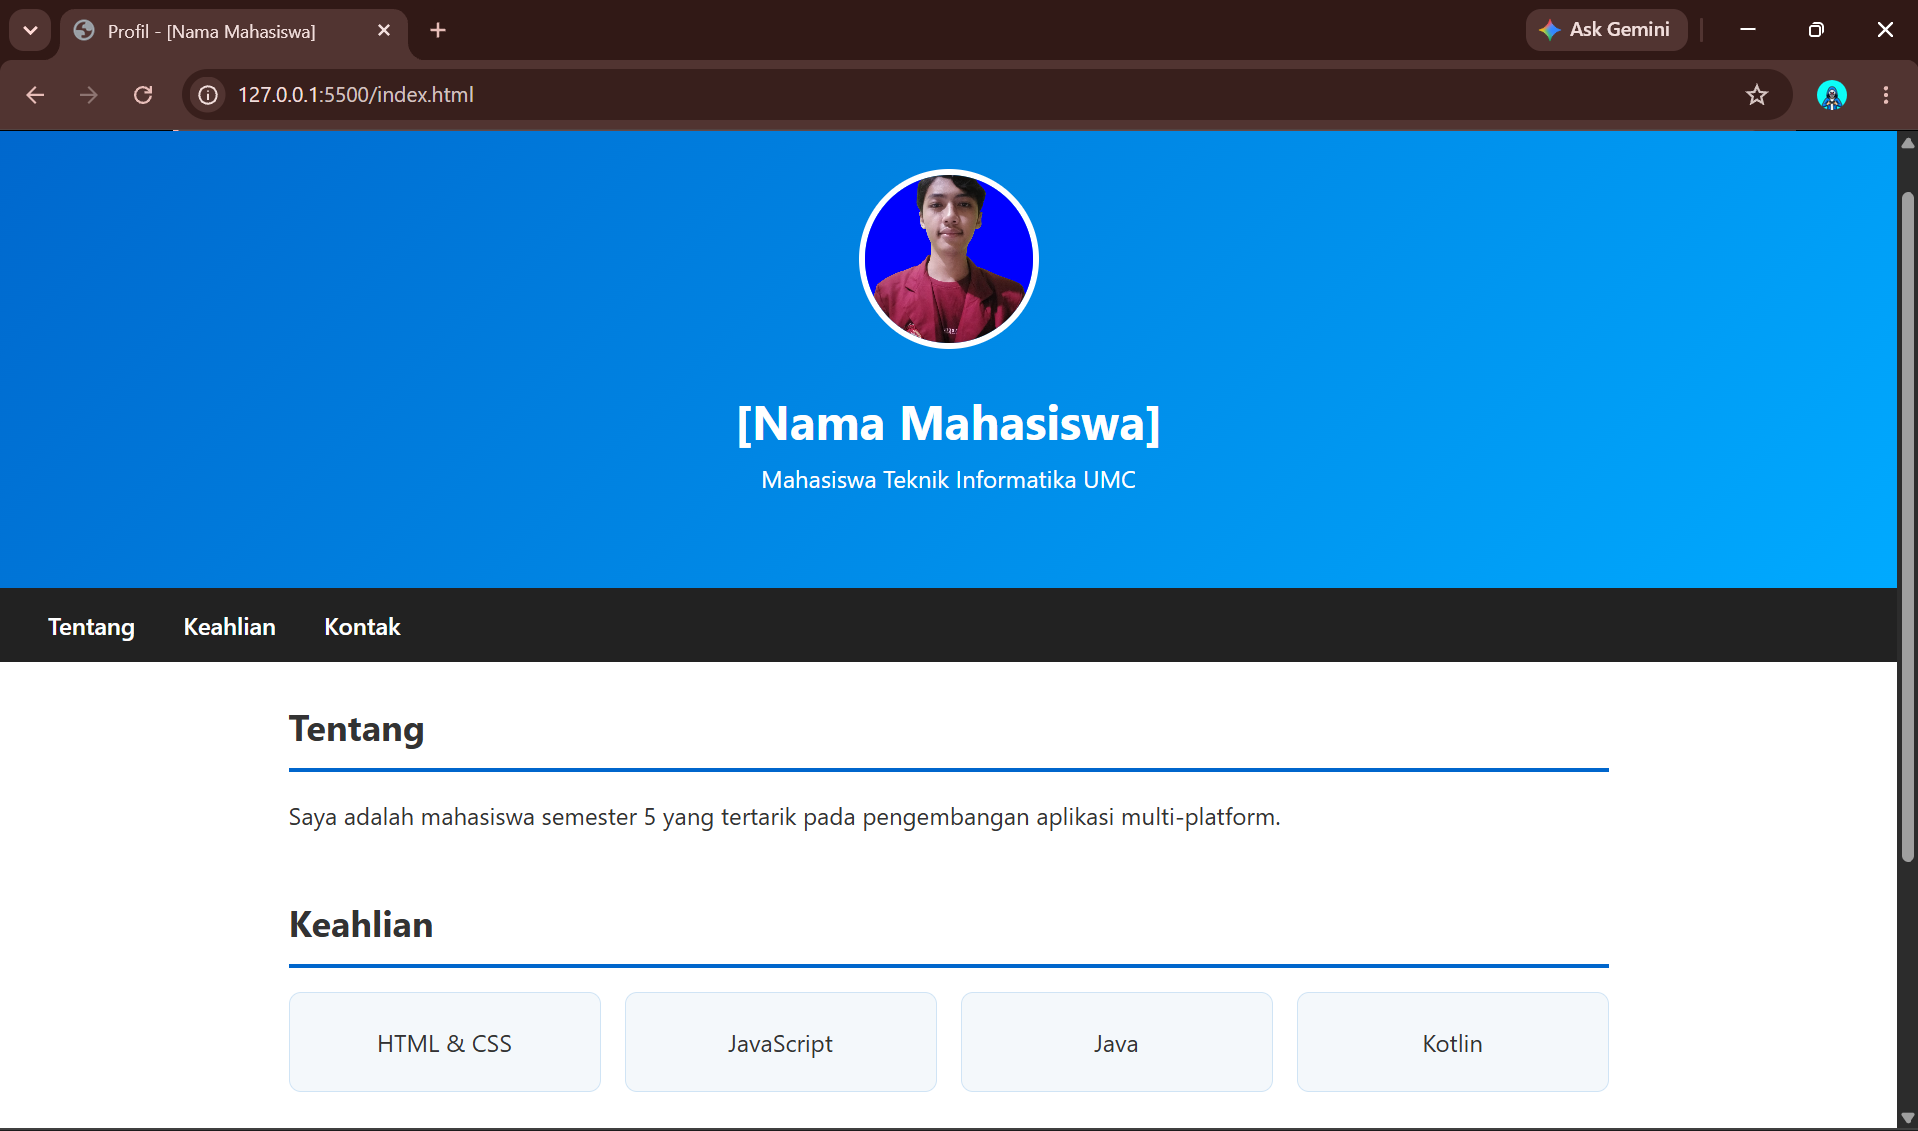
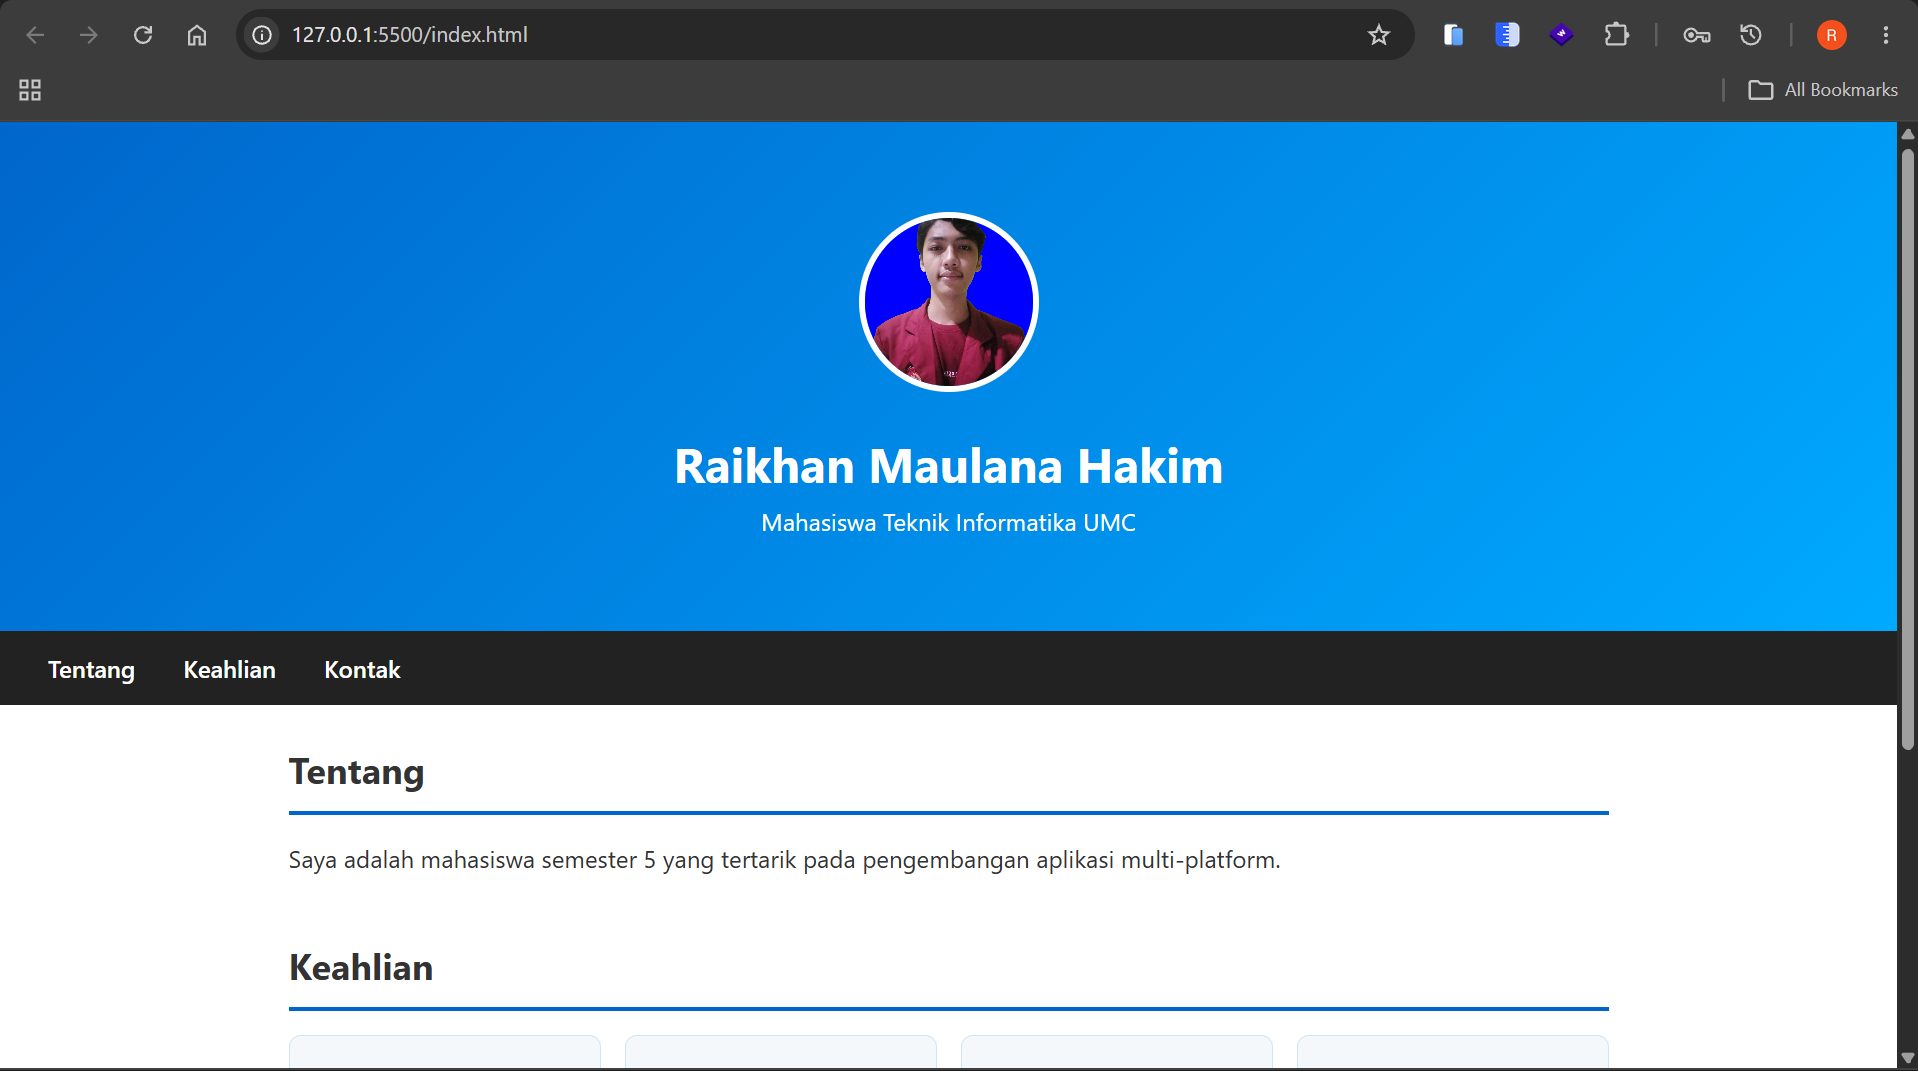
LKP 2B: Responsive design dengan media queries

diff --git a/index.html b/index.html
@@ -3,13 +3,13 @@
   <head>
     <meta charset="UTF-8" />
     <meta name="viewport" content="width=device-width, initial-scale=1.0" />
-    <title>Profil - [Nama Mahasiswa]</title>
+    <title>Profil - Raikhan Maulana Hakim</title>
     <link rel="stylesheet" href="style.css" />
   </head>
   <body>
     <header>
       <img src="assets/Raikhan.jpeg" alt="Foto Profil" class="foto" />
-      <h1>[Nama Mahasiswa]</h1>
+      <h1>Raikhan Maulana Hakim</h1>
       <p>Mahasiswa Teknik Informatika UMC</p>
     </header>
     <nav>
@@ -37,12 +37,12 @@
         <h2>Kontak</h2>
         <ul>
           <li>
-            Email: <a href="mailto:email@example.com">email@example.com</a>
+            Email: <a href="mailto:raikhan@example.com">raikhan@example.com</a>
           </li>
-          <li>GitHub: <a href="https://github.com/username">@username</a></li>
+          <li>GitHub: <a href="https://github.com/RaikhanMaulanaHakim"> @RaikhanMaulanaHakim</a></li>
         </ul>
       </section>
     </main>
-    <footer><p>&copy; 2026 [Nama Mahasiswa]. All rights reserved.</p></footer>
+    <footer><p>&copy; 2026 Raikhan Maulana Hakim. All rights reserved.</p></footer>
   </body>
 </html>
